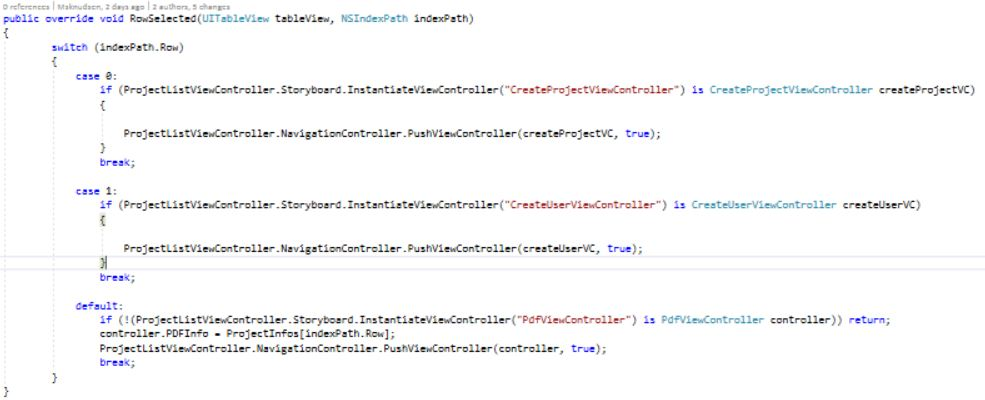
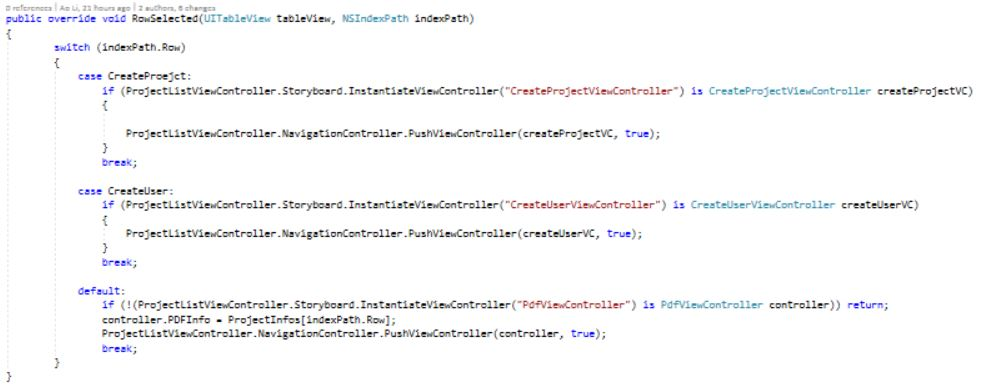
gsdafg

diff --git a/Bachelor Rapport/LateX/BachelorRapport/Resume/Resume.tex b/Bachelor Rapport/LateX/BachelorRapport/Resume/Resume.tex
@@ -1,12 +1,15 @@
 \chapter*{Resumé}
 %\addcontentsline{toc}{chapter}{Resumé}
-Projektet blev udarbejdet i efteråret 2017. Formålet med projektet har været at udvilke et system til Rambølls bygge afdeling, som de ville kunne benytte på byggepladserne. Systemet som blev udviklet havde navnet Rambøll Tilsyn.
+Rambøll er et landsdækkende rådgivningende ingeniør firma, inden for mange forskellige områder, bl.a. byggeri, transport og miljø. \\
+Deres byggeri afdeling i Aarhus, er interesserede i at digitalisere deres registreringsproces på byggepladsen, som i dag foregår med blyant og papir.
 
-Systemet blev tilgået gennem en applikation, som kommunikerede med en database via internettet.
-Applikationen skulle erstatte registrerings arbejdet på byggepladsen som i dag gøres med papir og blyant.
+Der er blevet anvendt en række metoder til udvikling af produktet. Disse metoder er workshops, kravspecifikation og litteratursøgning. Der er blevet anvendt en iterativ udviklingsproces i projektet.
 
-Der blev igennem projektet udviklet en prototype til systemet, hvor at de registreringer som blev oprettet via applikationen, ville blive gemt i databasen.  \\
-\newline
-\newline
-\newline
-\newline
+Afdelingen ønskede et produkt, som gjorde det muligt at lade papir og blyant ligger derhjemme og i stedet benytte enten en smartphone eller tablet.
+
+Produktet som er blevet udviklet er; Rambøll Tilsyn. Rambøll Tilsyn er et system bestående af en iOS applikation til smartphone eller tablet, med en Firebase backend.
+På applikationen vil der kunne oprettes en digitaliseret form for den analog registrering der i dag anvendes. 
+
+Produktet er endt i en prototype, som vil kunne videre implementeres til et endeligt produkt.
+
+\clearpage

diff --git a/Bachelor Rapport/LateX/ArkitekturDesign/OverordnetArkitektur/OverordnetArkitektur.tex b/Bachelor Rapport/LateX/ArkitekturDesign/OverordnetArkitektur/OverordnetArkitektur.tex
@@ -37,4 +37,4 @@ På Figur \ref{fig:KlasseDiagram} ses der en klasse diagram over RamboellTilSyn 
 	\label{fig:KlasseDiagram}
 \end{figure}
 
-Her ses at alle ViewControllers er nedarvet fra UIViewController\cite{UIViewController}, som er en klasse der stammer fra Xamarin.iOS frameworket. UITableViewController er en specialiseret klasse fra Xamarin.iOS frameworket, der er nedarvet fra UIViewController. Formålet med denne er at vise en liste af data som man selv har implementeret. Logger klassen bruger Firebase Analytics for at logge events fra applikationen, som en erstatning for skrive sine fejlbeskeder ud i Console lokalt\cite{CON}. Fordelen ved dette er at man kan logge diverse events fra alle devices og se det på Firebase Console.  
+Her ses at alle ViewControllers er nedarvet fra UIViewController\cite{UIViewController}, som er en klasse der stammer fra Xamarin.iOS frameworket. UITableViewController er en specialiseret klasse fra Xamarin.iOS frameworket, der er nedarvet fra UIViewController. Formålet med denne er at vise en liste af data som man selv har implementeret. Logger klassen bruger Firebase Analytics\cite{FirebaseAnalytic} for at logge events fra applikationen, som en erstatning for skrive sine fejlbeskeder ud i Console lokalt\cite{CON}. Fordelen ved dette er at man kan logge diverse events fra alle devices og se det på Firebase Console.  

diff --git a/Bachelor Rapport/LaTeX/BachelorRapport/Arkitektur/Arkitektur.tex b/Bachelor Rapport/LaTeX/BachelorRapport/Arkitektur/Arkitektur.tex
@@ -24,4 +24,4 @@ På Figur \ref{fig:KlasseDiagram} ses der en klassediagram over RamboellTilSyn. 
 
 Alle ViewControllers er nedarvet fra UIViewController\cite{UIViewController}. UIViewController en klasse der stammer fra Xamarin.iOS frameworket. \\
 Klassen UITableViewControllers formål er at vise en liste af data som man selv har implementeret. \\
-Logger klassen bruger Firebase Analytics for at logge events fra applikationen. Dette gør at man kan bruge fejlmeddelelserne fra Analytics til fortælle brugeren hvad der er sket af fejl.  
+Logger klassen bruger Firebase Analytics\cite{FirebaseAnalytic} for at logge events fra applikationen. Dette gør at man kan bruge fejlmeddelelserne fra Analytics til fortælle brugeren hvad der er sket af fejl.  

diff --git a/Bachelor Rapport/LateX/BachelorRapport/Resume/Abstract.tex b/Bachelor Rapport/LateX/BachelorRapport/Resume/Abstract.tex
@@ -1,11 +1,8 @@
 {\let\clearpage\relax \chapter*{Abstract}}
 %\addcontentsline{toc}{chapter}{Abstract} 
-Projektet blev udarbejdet i efteråret 2017. Formålet med projektet har været at udvilke et system til Rambølls bygge afdeling, som de ville kunne benytte på byggepladserne. Systemet som blev udviklet havde navnet Rambøll Tilsyn.
 
-Systemet blev tilgået gennem en applikation, som kommunikerede med en database via internettet.
-Applikationen skulle erstatte registrerings arbejdet på byggepladsen som i dag gøres med papir og blyant.
+DET KOMMER !!
 
-Der blev igennem projektet udviklet en prototype til systemet, hvor at de registreringer som blev oprettet via applikationen, ville blive gemt i databasen.  \\ \\
 \clearpage
 
 

diff --git a/Bachelor Rapport/LaTeX/ArkitekturDesign/Design/ProjectList/ProjectList.tex b/Bachelor Rapport/LaTeX/ArkitekturDesign/Design/ProjectList/ProjectList.tex
@@ -85,7 +85,7 @@ På Figur \ref{fig:RowSelection}, ses funktionen for RowSelected().
 	\caption{Kode snip - RowSelected() fra TableSource.cs}
 	\label{fig:RowSelection}
 \end{figure}
-Der er en switch case, case 0 giver bruger mulighed for at navigere til 'Opret projekt' siden. Case 1 navigere brugeren til 'Opret bruger' siden. \\
+Der er en switch case, case CreateProject giver bruger mulighed for at navigere til 'Opret projekt' siden. Case CreateUser navigere brugeren til 'Opret bruger' siden. \\
 Ellers skal den navigere brugeren til 'PDFViewControlleren', for det valgte projekt.
 
 \clearpage

diff --git a/Bachelor Rapport/LateX/BachelorRapport/Resultater/Resultater.tex b/Bachelor Rapport/LateX/BachelorRapport/Resultater/Resultater.tex
@@ -1,5 +1,5 @@
 \chapter{Resultater}
-Dette kapitel gennemgår resultaterne, som er opnået ved arbejde med Rambøll Tilsyn. Herunder vises en tabel over User Stories er opdelt efter MoSCoW, og ud fra hver User Story kan resultatet ses.\\
+Dette kapitel gennemgår resultaterne, som er opnået ved arbejde med Rambøll Tilsyn. Herunder vises en tabel over User Stories er opdelt efter MoSCoW, og ud fra hver User Story kan resultatet ses.
 For resultaerne baseret på user story niveau henvises til Accepttestspecifikation, som er vedlagt i bilag. \\
 \begin{tabular}{ l | c  }
 	\hline

diff --git a/Bachelor Rapport/LateX/Accepttestspecifikation/Accepttest/Accepttest.tex b/Bachelor Rapport/LateX/Accepttestspecifikation/Accepttest/Accepttest.tex
@@ -1,5 +1,6 @@
 \chapter{Accepttestspecifikation}
-Dette dokument scecificerer accepttesten af systemet for Rambøll Tilsyn jf. kravspecifikationen.
+Dette dokument scecificerer accepttesten af systemet for Rambøll Tilsyn jf. kravspecifikationen. \\
+Accepttesten er blevet kørt som dry run, sammen med vejleder Lars Christian Jensen. \\
 
 \input{../Accepttestspecifikation/Accepttest/Login/Login}
 \input{../Accepttestspecifikation/Accepttest/OpretBruger/OpretBruger}
